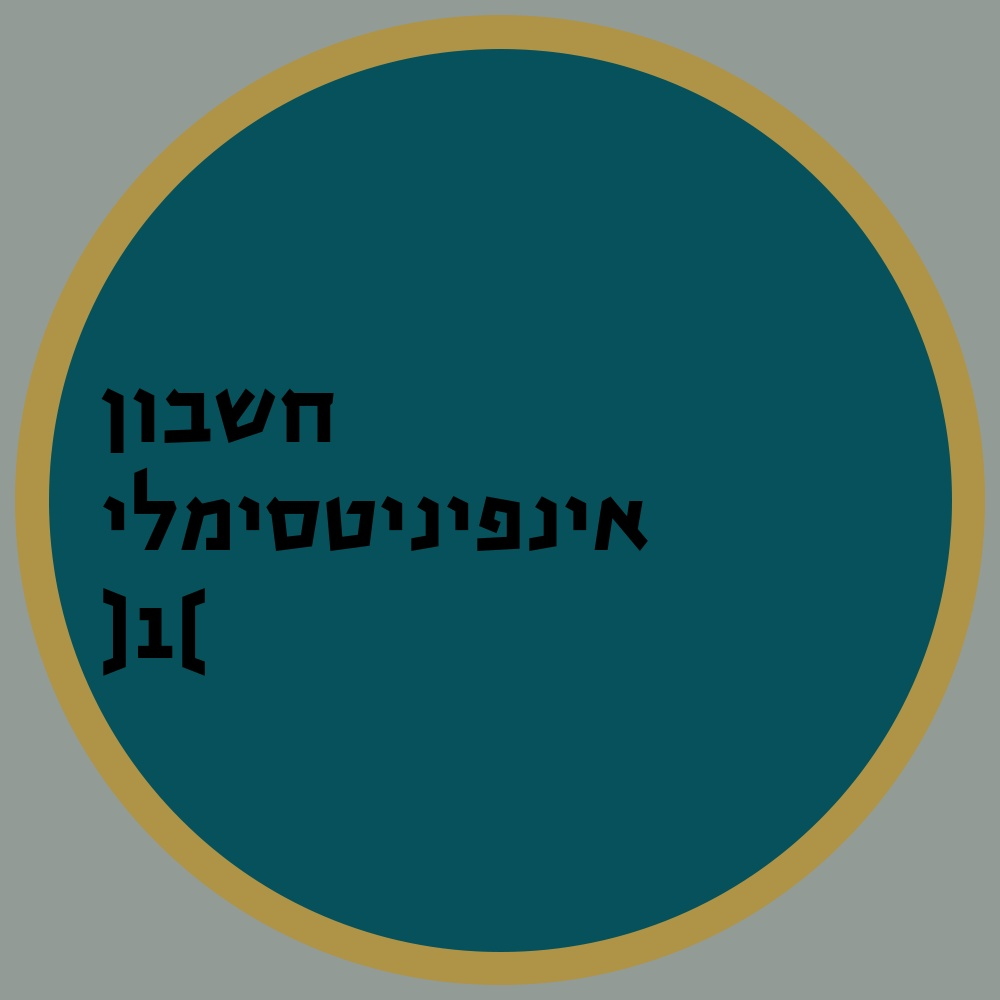
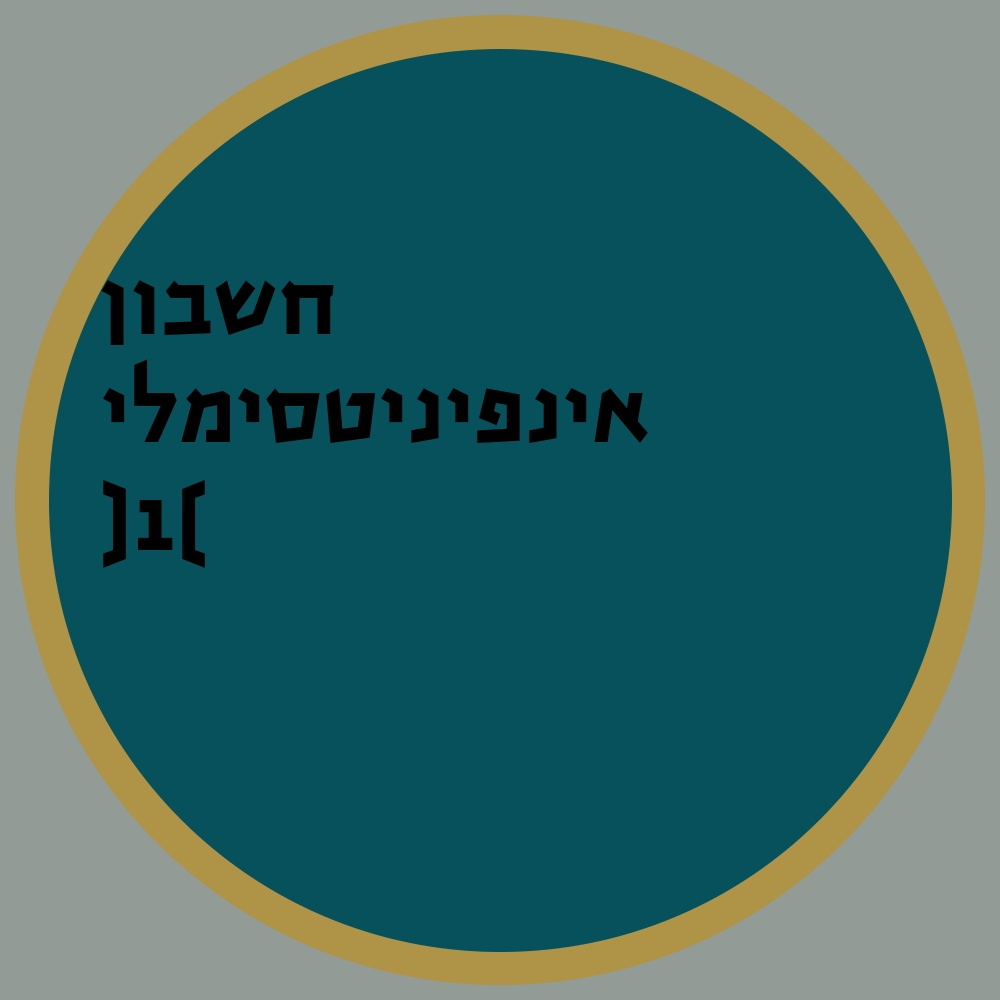
why more line retruns when you can have less line retuns

Changed region(s): [[0.093, 0.279, 0.651, 0.682]]

diff --git a/main.py b/main.py
@@ -94,7 +94,7 @@ StringToBeRevesed = (ShantonObject[0]['name']['he']).replace(' ', '\n')
 StringForImage = ""
 for line in StringToBeRevesed.splitlines():
     print(line[::-1])
-    StringForImage += "\n"+(line[::-1])
+    StringForImage += (line[::-1])+"\n"
 
 
 TestTextToIcon(StringForImage, "Template.png","fonts/Huji-Bold.otf","pfp.jpg")
